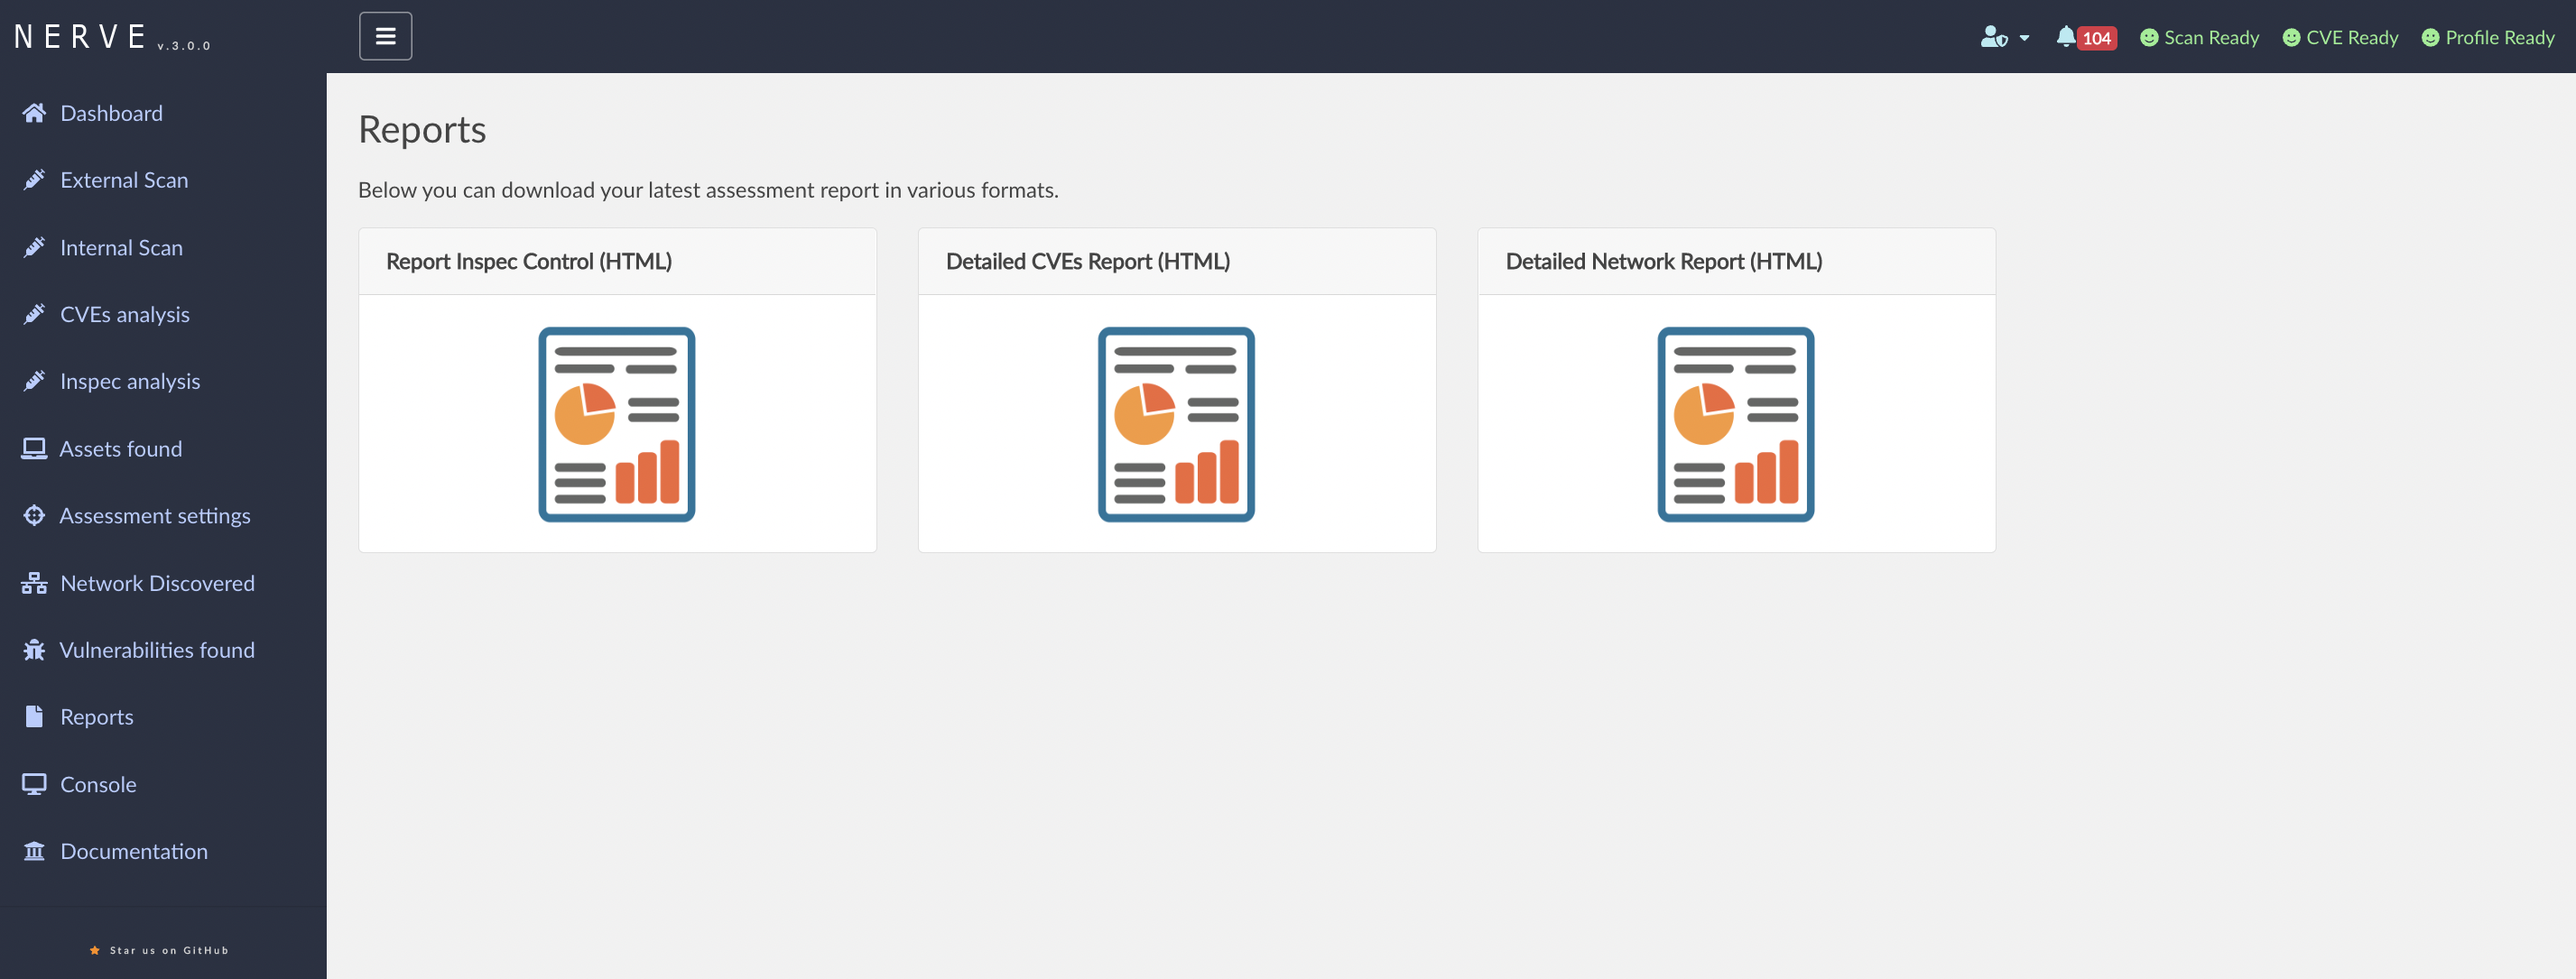
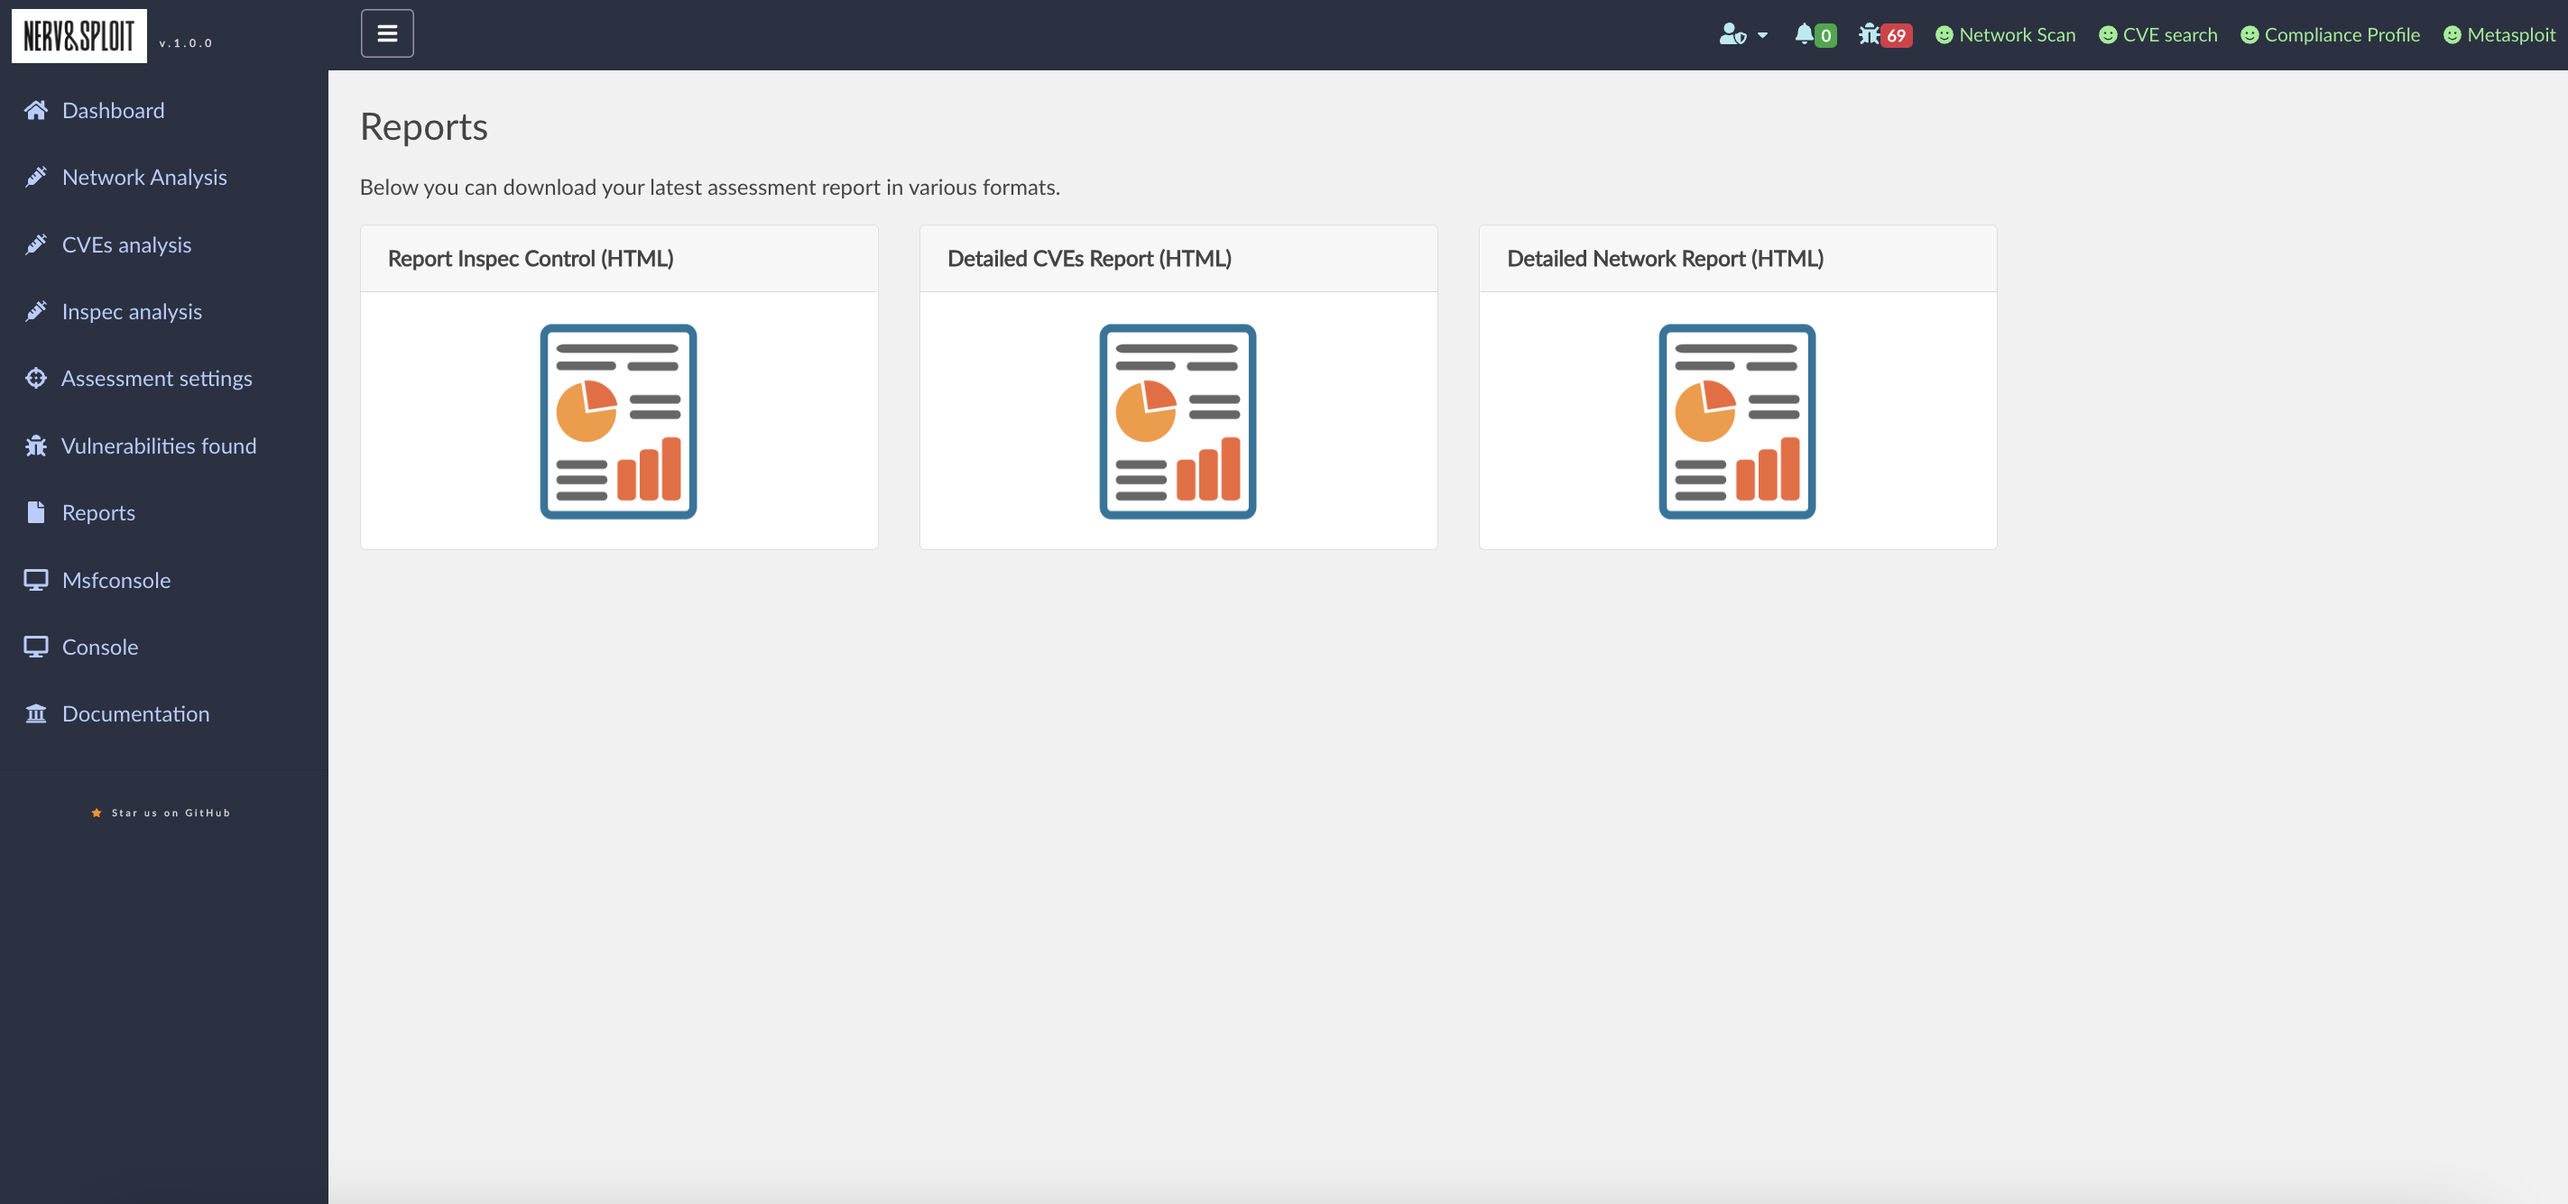
fixes various and added new screenshots

diff --git a/templates/headbar.html b/templates/headbar.html
@@ -34,10 +34,18 @@
 </li>
 <li class="nav-item dropdown">
   <div class="nav-dropdown">
-  {% if status == "Ready" %}
-    <span class="nav-item nav-link"> <span class="navbar-status c-green"><i class="fas fa-smile"></i> Network Scan </span> </span>
-  {% else %}
-    <span class="nav-item nav-link"> <span class="navbar-status c-white"> <i class="fa fa-spinner fa-spin"></i> Network Scan </span> </span>
+  {% if status != "Ready" %}
+    <span class="nav-item nav-link"> <span class="navbar-status c-white"> <i class="fa fa-spinner fa-spin"></i> Scan </span> </span>
+  {% endif %}
+  </div>
+</li>
+<li class="nav-item dropdown">
+  <div class="nav-dropdown">
+  {% if network_thread_status == 'green' %}
+    <span class="nav-item nav-link"> <span class="navbar-status c-green"><i class="fas fa-smile"></i> Network </span> </span>
+  {% endif %}
+  {% if network_thread_status == 'red' %}
+    <span class="nav-item nav-link"> <span class="navbar-status c-red"> <i class="fa fa-angry"></i> Network </span> </span>
   {% endif %}
   </div>
 </li>

diff --git a/templates/msfconsole.html b/templates/msfconsole.html
@@ -38,6 +38,7 @@
                                   <p class="card-title"><b>This console will start populating once data comes in...</b></p>
                                   <i class="fa fa-spinner fa-spin"></i> <small>Msfconsole is streaming...</small>
                                   <pre class="bash" id="output"></pre>
+                                  <span style="float:left; width: 300px;">Insert command to sent to msf backend</span>
                                   <input type="text" id="command" style="width: 500px; float: left;" /> 
 				  <i class="fa fa-spinner fa-spin" id="commandWait" style="display: none;"></i>
                               </div>

diff --git a/core/command_sender.py b/core/command_sender.py
@@ -5,7 +5,10 @@ import pexpect
 import time
 import os
 
-from core.utils   import Utils
+from core.utils   import (
+Utils,
+escape_ansi
+)
 from core.triage  import Triage
 from core.logging import logger
 from db import db_ports
@@ -100,12 +103,13 @@ class CommandSender():
     logger.info("SSH tunnel command: " + ssh_cmd)
     child = pexpect.spawn(ssh_cmd, timeout=3600)
     logger.info("Waiting for password prompt..")
-    child.expect(['[pP]assword: '])
+    child.expect('assword: ')
     logger.info("Insert password..")
     child.sendline(self.password)
     time.sleep(3)
+    logger.info("return_ssh_tunnel_command: {}".format(escape_ansi(child.before.decode('utf-8'))))
 
-    check_ssh_tunnel = os.popen("ps xa | grep ssh | grep w | grep -v grep | grep " + self.host).read()
+    check_ssh_tunnel = os.popen("ps xa | grep ssh | grep -v grep | grep " + self.host).read()
     logger.info("Tunnel: " + str(check_ssh_tunnel))
 
     if check_ssh_tunnel == '':

diff --git a/main.py b/main.py
@@ -137,6 +137,10 @@ def show_alarm_count():
   return dict(alarm_count=contatore)
 
 @app.context_processor
+def show_network_service_status():
+  return dict(network_thread_status=check_thread("network_scanner"))  
+
+@app.context_processor
 def show_cve_service_status():
   return dict(cve_service_status=check_service_http(rds.get_custom_config('config_cve_scan_service_host'), str(rds.get_custom_config('config_cve_scan_service_port')), 'api/get_cves/openssh:8.2', {"yellow": "ritorno['results'] == []", "green": "len(ritorno['results']) > 0"}))
 

diff --git a/core/workers.py b/core/workers.py
@@ -1,6 +1,6 @@
 import threading
 
-from bin.scanner     import scanner
+from bin.scanner     import network_scanner
 from bin.attacker    import attacker
 from bin.scheduler   import scheduler
 from bin.cve_scanner import cve_scanner
@@ -9,8 +9,8 @@ from bin.metasploit  import metasploit
 
 
 def start_workers():
-  thread = threading.Thread(target=scanner)
-  thread.name = "scanner"
+  thread = threading.Thread(target=network_scanner)
+  thread.name = "network_scanner"
   thread.daemon = True
   thread.start()
 

diff --git a/bin/scanner.py b/bin/scanner.py
@@ -9,7 +9,7 @@ from core.command_sender import CommandSender
 from core.attacker       import attacker
 from core.utils          import log_exception
 
-def scanner():
+def network_scanner():
 
   try:
 

diff --git a/README.md b/README.md
@@ -61,12 +61,13 @@ Network scan is based on NMAP library and checks and tests open doors and analys
 
 To come inside host, Flask interface creates a SSH VPN tunnel between itself and destination host (automatically or manually as indicated by UI interface).
 
-CVE search has been implemented and joined with NERV&SPLOUIT starting from the packages installed list. CVE-Search has been forked [on my repo](https://github.com/kavat/cve-search) and this version allows to perform API call with program name and version as only parameters. This provides a full list of CVE related to the packages installed on the system.
+CVE search has been implemented and joined with NERV&SPLOIT starting from the packages installed list. CVE-Search has been forked [on my repo](https://github.com/kavat/cve-search) and this version allows to perform API call with program name and version as only parameters. This provides a full list of CVE related to the packages installed on the system.
 
 Using inspec framework and profiles official released by DevSec as:
 * [Linux Baseline](https://github.com/dev-sec/linux-baseline)
 * [CIS Linux](https://github.com/dev-sec/cis-dil-benchmark)
 * [Windows Baseline](https://github.com/dev-sec/windows-baseline)
+
 new project [compliance-profile](https://github.com/kavat/compliance-profile) on my repository was born. This feature allows to perform a scan to verify OS hardening suggested by DevSec profiles.
 
 Metasploit can do all sorts of things and in this integration a web console linked to msfconsole has been realized.
@@ -192,7 +193,6 @@ In your browser, navigate to http://ip.add.re.ss:8080 and login with the credent
 
 In your browser, navigate to http://ip.add.re.ss:8080 and use the credentials printed in your terminal.
 
-
 # Multi Node Installation
 If you want to install NERV&SPLOIT in a multi-node deployment, you can follow the normal bare metal installation process, afterwards:
 1. Modify the config.py file on each node
@@ -227,18 +227,8 @@ We recommend to take the following steps before and after installation
 3. Add HTTPS (you can either patch Flask directly, or use a reverse proxy like nginx)
 4. Keep the instance patched
 
-# Usage
-To learn about NERV&SPLOIT (GUI, API, etc.) we advise you to check out the documentation available to you via the platform.
-Once you deploy it, authenticate and on the left sidebar you will find a documentation link for API and GUI usage.
-
-## GUI Documentation
-![Nerve](https://github.com/kavat/nerve/blob/master/static/screenshots/10.png?raw=true)
-
-## API Documentation
-![Nerve](https://github.com/kavat/nerve/blob/master/static/screenshots/11.png?raw=true)
-
 # License
-It is distributed under the MIT License. See LICENSE for more information.
+From orginal NERVE project, NERV&SPLOIT is distributed under the MIT License. See LICENSE for more information.
 
 # Screenshots
 ## Login Screen
@@ -247,8 +237,6 @@ It is distributed under the MIT License. See LICENSE for more information.
 ![Nerve](https://raw.githubusercontent.com/kavat/nerve/master/screenshots/dashboard.png)
 ## Assessment Configuration
 ![Nerve](https://github.com/kavat/nerve/blob/master/static/screenshots/3.png?raw=true)
-## API Documentation
-![Nerve](https://github.com/kavat/nerve/blob/master/static/screenshots/4.png?raw=true)
 ## Reporting
 ![Nerve](https://raw.githubusercontent.com/kavat/nerve/master/screenshots/reporting.png)
 ## Network Map
@@ -261,5 +249,5 @@ It is distributed under the MIT License. See LICENSE for more information.
 ![Nerve](https://raw.githubusercontent.com/kavat/nerve/master/screenshots/vulnerabilities_inspec.png)
 ## Log Console
 ![Nerve](https://github.com/kavat/nerve/blob/master/static/screenshots/8.png?raw=true)
-## HTML Report
-![Nerve](https://github.com/kavat/nerve/blob/master/static/screenshots/9.png?raw=true)
+## Metasploit Console
+![Nerve](https://github.com/kavat/nerve/blob/master/static/screenshots/13.png?raw=true)
